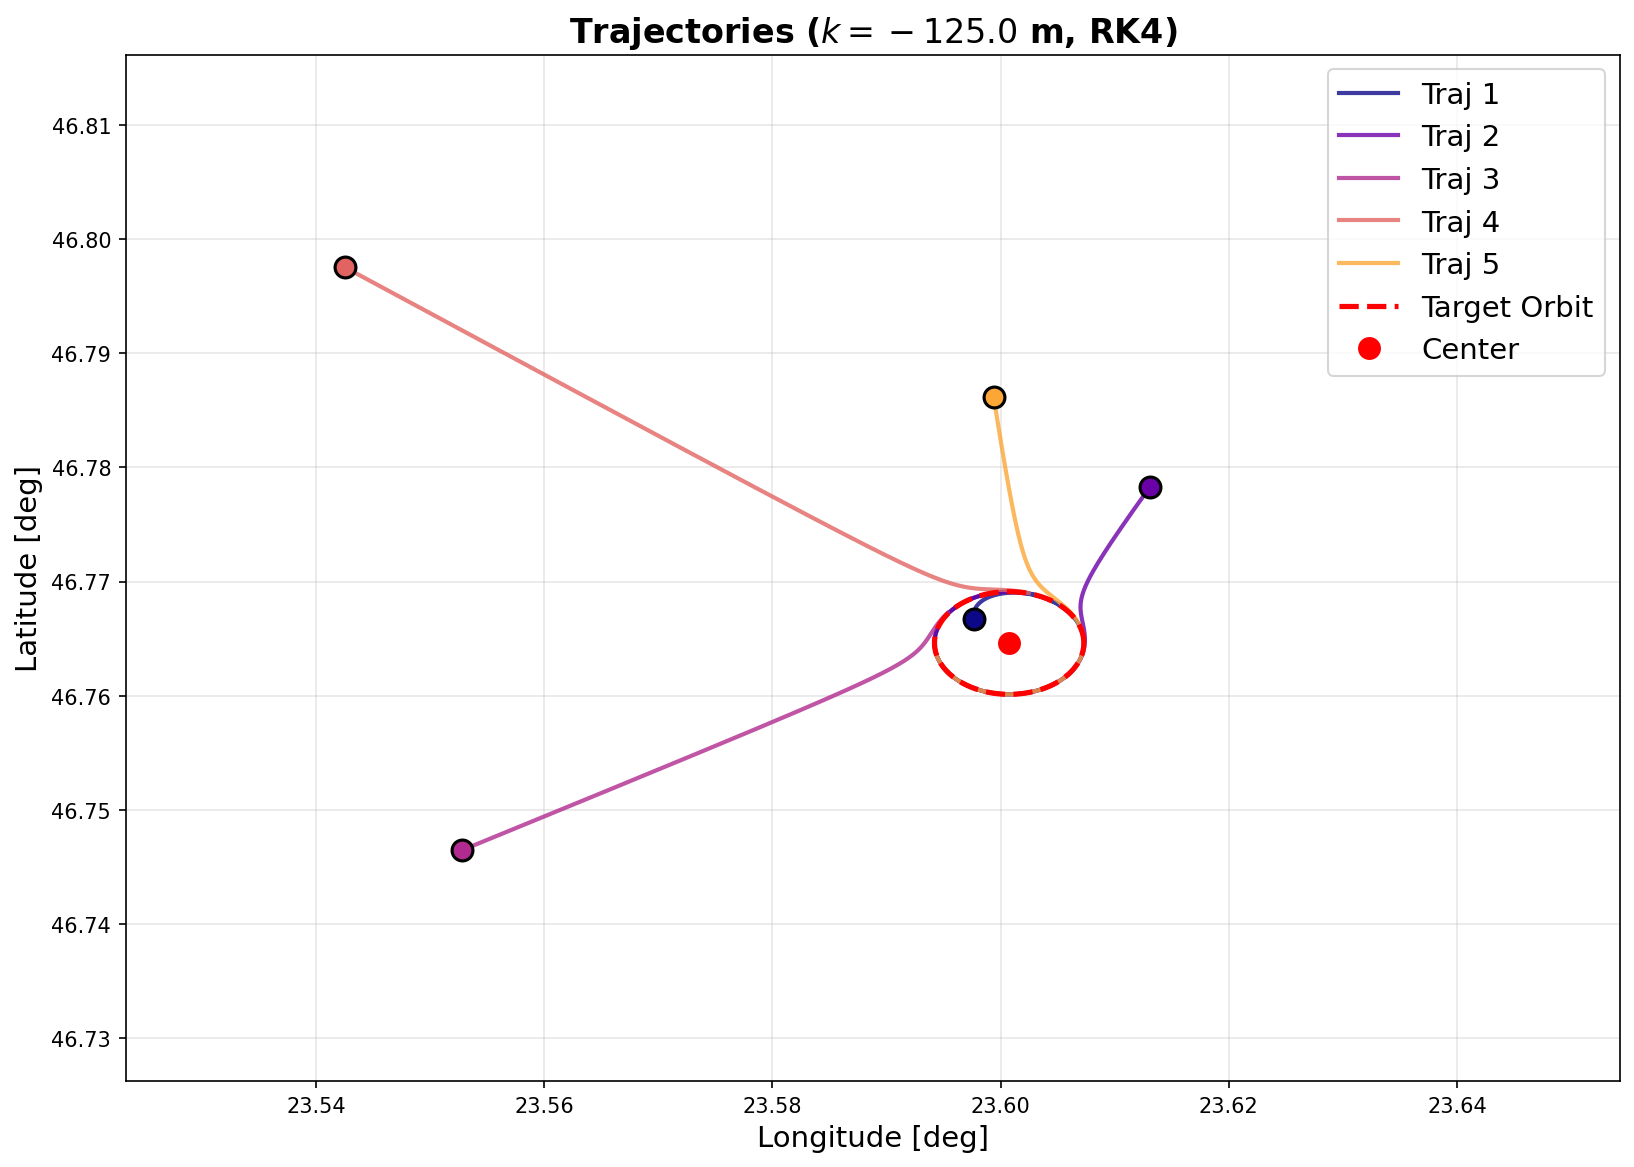
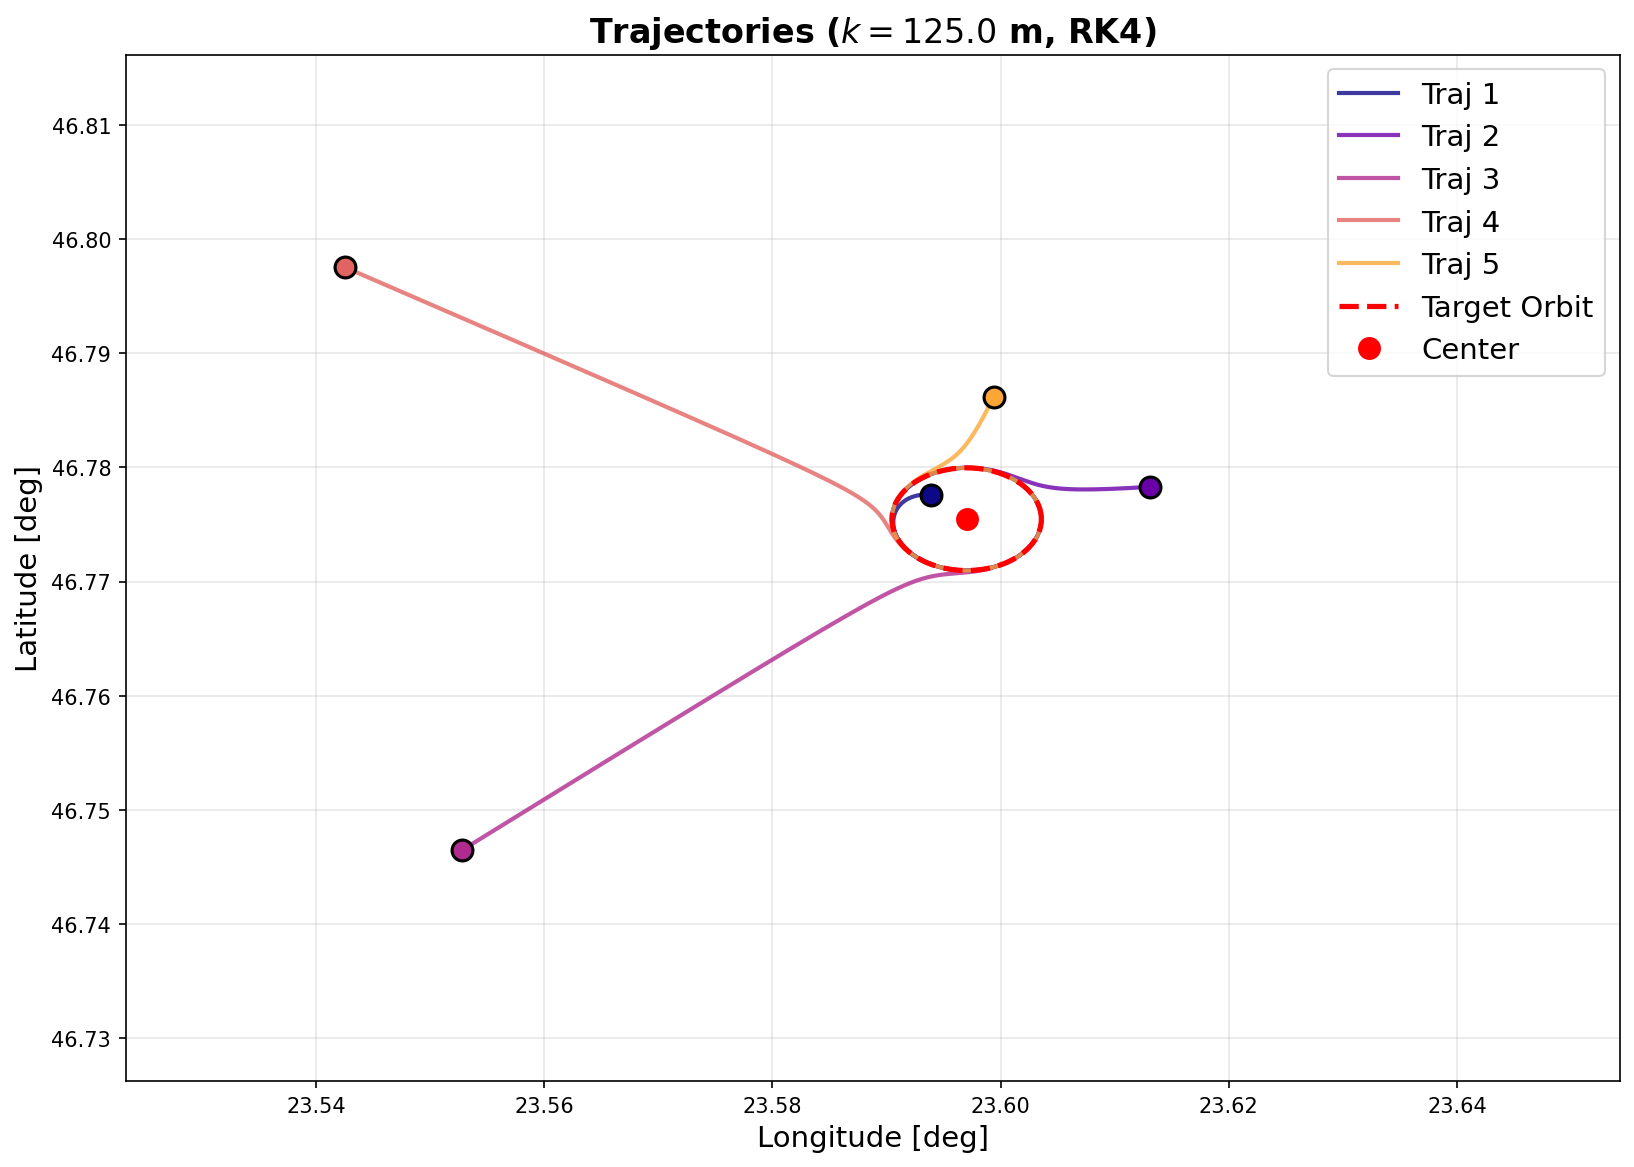
Circular Loiter Theory test .py - correct

diff --git a/Models/NAV/Circular Loiter/Orbit_Guidance_th_test.py b/Models/NAV/Circular Loiter/Orbit_Guidance_th_test.py
@@ -29,7 +29,7 @@ lam_c = lam_center + offset_x / (N_ref * np.cos(phi_center))
 phi_c = phi_center + offset_y / M_ref
 
 R = 500
-k = -0.25 * R
+k = 0.25 * R
 lam_orbit = 1
 v = 20
 
@@ -65,7 +65,7 @@ for i in range(n_grid):
         dy = y - y_c
         
         r = np.sqrt(dx**2 + dy**2)
-        theta = np.arctan2(dx, dy)
+        theta = np.arctan2(-dx, -dy)
         
         psi = theta + lam_orbit * (np.arctan((R - r) / k) + np.pi/2)
         # Stange ... -> something fishy with the tetha
@@ -136,7 +136,7 @@ for traj_id in range(n_traj):
             dx = x - x_c
             dy = y - y_c
             r = np.sqrt(dx**2 + dy**2)
-            theta = np.arctan2(dx, dy)
+            theta = np.arctan2(-dx, -dy)
             
             psi = theta + lam_orbit * (np.arctan((R - r) / k) + np.pi/2)
             
